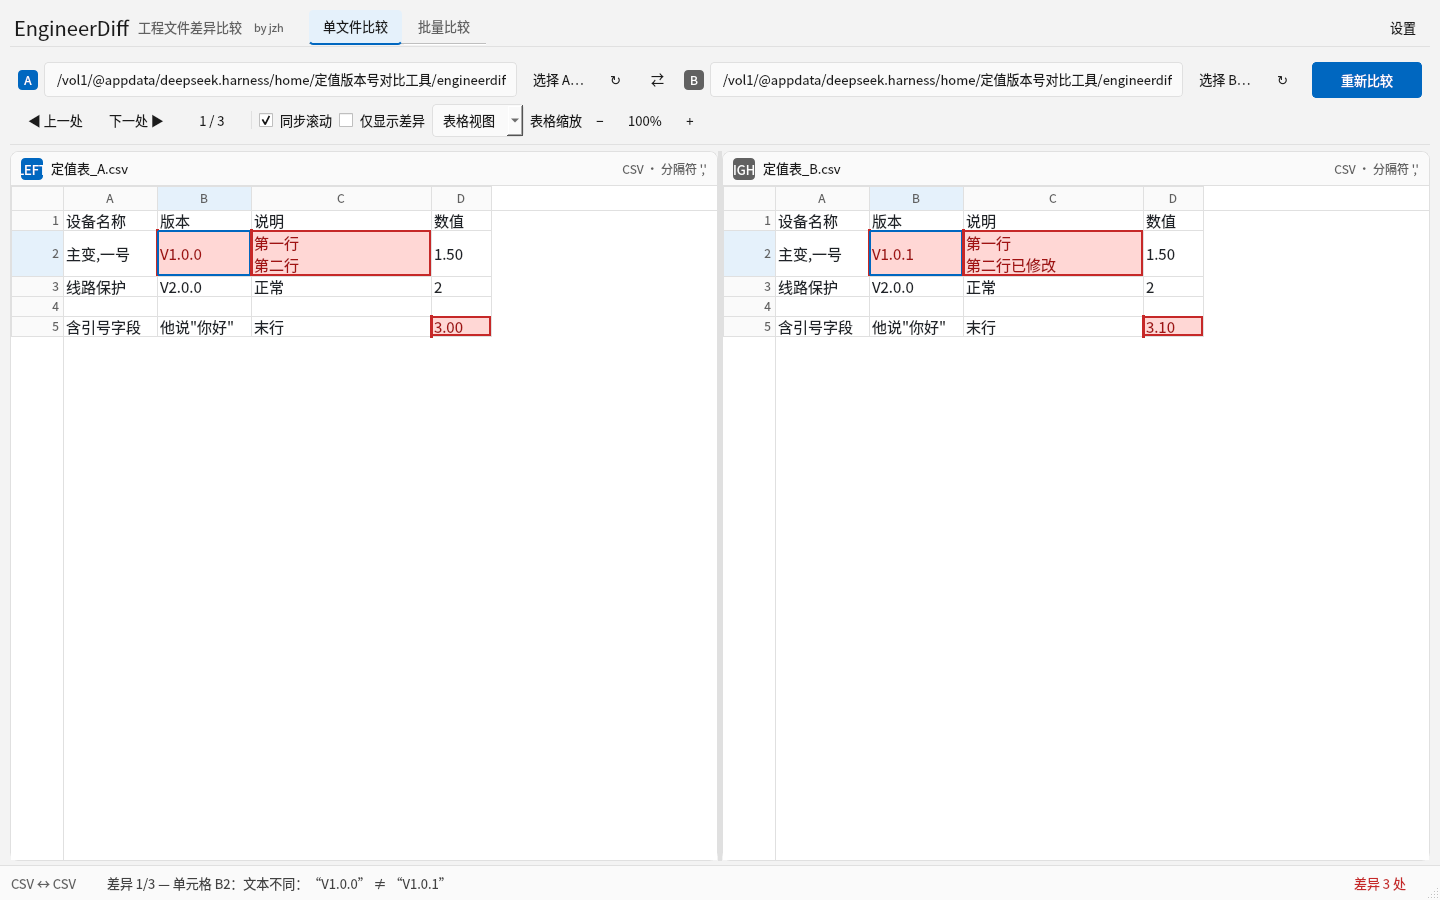
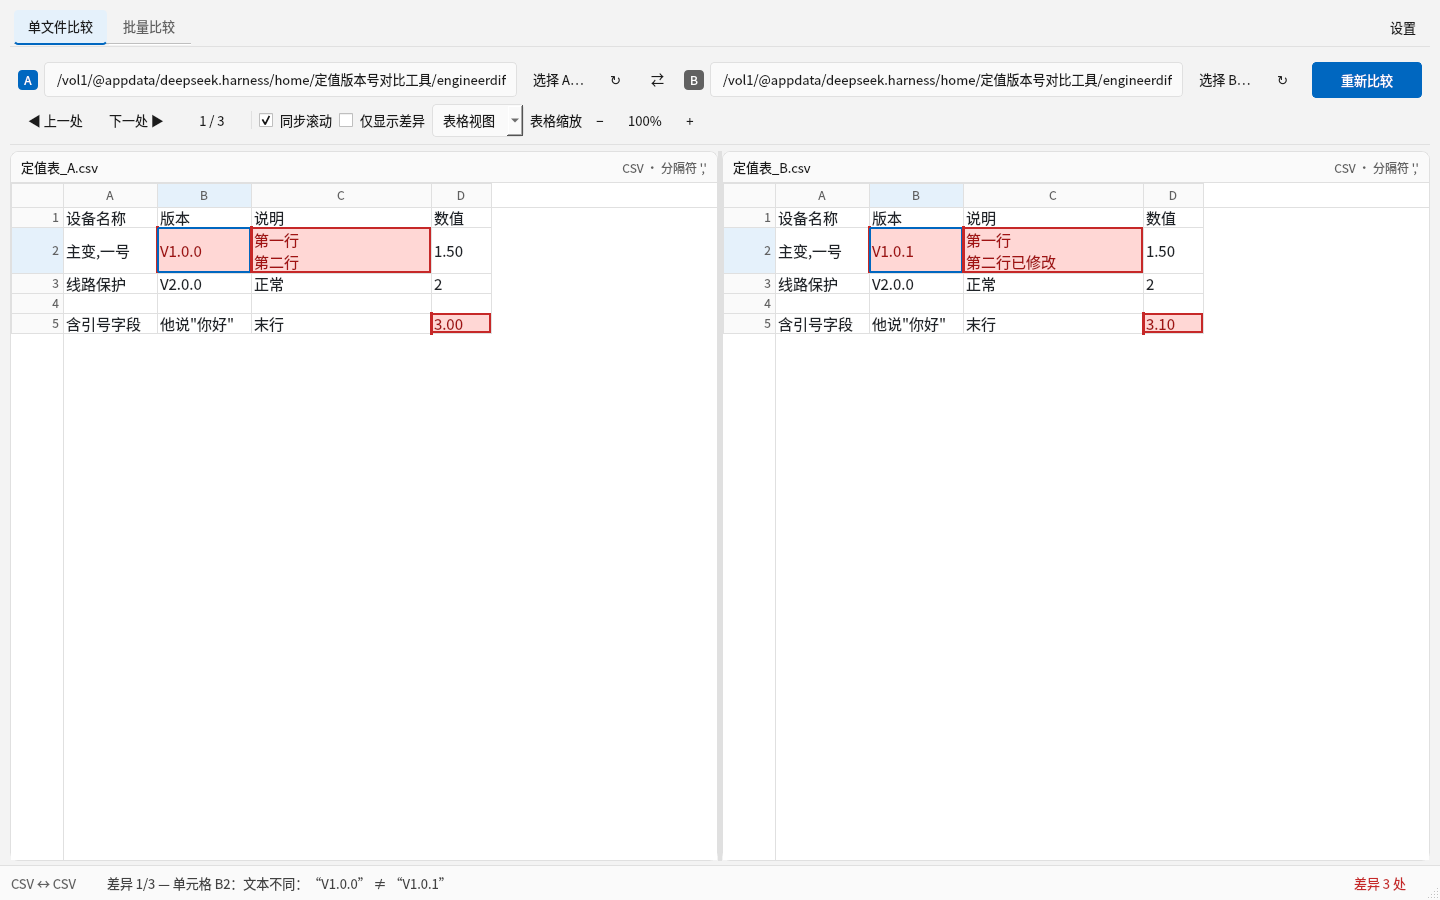
EngineerDiff 1.2.1: remove side badges, native title EngineerDiff by jzh, drop baseline file

diff --git a/src/engineerdiff/ui/batch_dialog.py b/src/engineerdiff/ui/batch_dialog.py
@@ -72,6 +72,38 @@ class _FileList(QListWidget):
             super().dropEvent(event)
 
 
+class _BaselineCombo(QComboBox):
+    """基准下拉框：支持从资源管理器把文件直接拖上来设为基准。"""
+
+    paths_dropped = Signal(list)
+
+    def __init__(self, parent=None):
+        super().__init__(parent)
+        self.setAcceptDrops(True)
+        self.setToolTip("选择基准文件；也可以把文件直接拖到此处设为基准")
+
+    def dragEnterEvent(self, event: QDragEnterEvent) -> None:  # noqa: N802
+        if event.mimeData().hasUrls():
+            event.acceptProposedAction()
+        else:
+            super().dragEnterEvent(event)
+
+    def dragMoveEvent(self, event) -> None:  # noqa: N802
+        if event.mimeData().hasUrls():
+            event.acceptProposedAction()
+        else:
+            super().dragMoveEvent(event)
+
+    def dropEvent(self, event: QDropEvent) -> None:  # noqa: N802
+        if event.mimeData().hasUrls():
+            paths = [u.toLocalFile() for u in event.mimeData().urls() if u.isLocalFile()]
+            if paths:
+                self.paths_dropped.emit(paths)
+            event.acceptProposedAction()
+        else:
+            super().dropEvent(event)
+
+
 class BatchWorker(QThread):
     progress = Signal(int, str)
     candidate_done = Signal(object)
@@ -142,7 +174,8 @@ class BatchCompareDialog(QDialog):
         self.lbl_page_title.setObjectName("pageTitle")
         root.addWidget(self.lbl_page_title)
         hint = QLabel(
-            "默认第一个文件为基准，可在下方下拉框更换；其余文件依次与基准比较。"
+            "默认第一个文件为基准；可在下方下拉框更换，或把文件直接拖到基准框。"
+            "其余文件依次与基准比较。"
             "同一位置只要有任意一个文件不同，整行标红（或关系）。"
         )
         hint.setWordWrap(True)
@@ -162,9 +195,9 @@ class BatchCompareDialog(QDialog):
         fph = QHBoxLayout()
         self.lbl_baseline = QLabel("基准：")
         fph.addWidget(self.lbl_baseline)
-        self.combo_baseline = QComboBox()
+        self.combo_baseline = _BaselineCombo()
         self.combo_baseline.setMinimumWidth(220)
-        self.combo_baseline.setToolTip("选择基准文件；更换后点击“开始批量比较/重新比较”")
+        self.combo_baseline.paths_dropped.connect(self._set_baseline_from_paths)
         fph.addWidget(self.combo_baseline, 1)
         self.lbl_count = QLabel("共 0 个文件")
         fph.addWidget(self.lbl_count)
@@ -340,6 +373,28 @@ class BatchCompareDialog(QDialog):
             item.setToolTip(info.path)
             self.file_list.addItem(item)
             existing.add(info.path)
+
+    def _set_baseline_from_paths(self, paths: list[str]) -> None:
+        """把拖到基准下拉框上的文件加入列表并设为基准。"""
+        if not paths:
+            return
+        self._add_paths(paths)
+        target = paths[0]
+        try:
+            target_resolved = Path(target).resolve()
+        except Exception:
+            target_resolved = Path(target)
+        for i in range(self.combo_baseline.count()):
+            data = self.combo_baseline.itemData(i)
+            if not data:
+                continue
+            try:
+                if Path(data).resolve() == target_resolved:
+                    self.combo_baseline.setCurrentIndex(i)
+                    break
+            except Exception:
+                continue
+        self.lbl_status.setText("基准已切换；点击“重新比较”生成新的差异矩阵。")
 
     def _choose_files(self) -> None:
         paths, _ = QFileDialog.getOpenFileNames(

diff --git a/src/engineerdiff/ui/main_window.py b/src/engineerdiff/ui/main_window.py
@@ -57,7 +57,7 @@ from .workers import CompareWorker
 class MainWindow(QMainWindow):
     def __init__(self, parent=None):
         super().__init__(parent)
-        self.setWindowTitle(f"{version.APP_NAME} {version.__version__} — 工程文件差异比较")
+        self.setWindowTitle(f"{version.APP_NAME} by {version.AUTHOR}")
         self.resize(1440, 900)
         self.setMinimumSize(1050, 680)
         self._settings = AppSettings()
@@ -115,17 +115,8 @@ class MainWindow(QMainWindow):
         hl = QHBoxLayout(header)
         hl.setContentsMargins(4, 2, 4, 2)
         hl.setSpacing(8)
-        self.lbl_brand = QLabel("EngineerDiff")
-        self.lbl_brand.setObjectName("brandTitle")
-        self.lbl_subtitle = QLabel("工程文件差异比较")
-        self.lbl_subtitle.setObjectName("brandSubtitle")
-        self.lbl_author = QLabel(f"by {version.AUTHOR}")
-        self.lbl_author.setObjectName("brandAuthor")
-        self.lbl_author.setToolTip(f"开发者：{version.AUTHOR}")
-        hl.addWidget(self.lbl_brand)
-        hl.addWidget(self.lbl_subtitle)
-        hl.addWidget(self.lbl_author)
-        hl.addSpacing(14)
+        # 原生 Windows 标题栏已显示“EngineerDiff by jzh”，窗口内不再重复品牌行；
+        # 顶部只保留工作模式导航与设置，减少视觉噪声。
         self.nav = QTabBar()
         self.nav.setObjectName("modeNav")
         self.nav.addTab("单文件比较")

diff --git a/src/engineerdiff/ui/panes.py b/src/engineerdiff/ui/panes.py
@@ -46,14 +46,10 @@ class SidePane(QFrame):
         h = QHBoxLayout(header)
         h.setContentsMargins(10, 6, 10, 6)
         h.setSpacing(8)
-        self.badge = QLabel(side.upper())
-        self.badge.setFixedSize(22, 22)
-        self.badge.setAlignment(Qt.AlignmentFlag.AlignCenter)
         self.name_label = QLabel("未选择文件")
         self.name_label.setTextInteractionFlags(Qt.TextInteractionFlag.TextSelectableByMouse)
         self.meta_label = QLabel("")
         self.meta_label.setAlignment(Qt.AlignmentFlag.AlignRight | Qt.AlignmentFlag.AlignVCenter)
-        h.addWidget(self.badge)
         h.addWidget(self.name_label, 1)
         h.addWidget(self.meta_label)
         self._layout.addWidget(header)
@@ -83,10 +79,6 @@ class SidePane(QFrame):
         self._header.setStyleSheet(
             f"QWidget#sideHeader {{ background:{p.secondary_surface}; border-bottom:1px solid {p.divider};"
             "border-top-left-radius:8px; border-top-right-radius:8px; }"
-        )
-        self.badge.setStyleSheet(
-            f"background:{p.accent if self.side == 'left' else p.text_secondary};color:white;"
-            "border-radius:4px;font-weight:600;font-size:10pt;"
         )
         self.name_label.setStyleSheet(f"font-weight:600;color:{p.text};")
         self.meta_label.setStyleSheet(f"color:{p.text_secondary};font-size:9pt;")

diff --git a/tests/test_ui_fluent.py b/tests/test_ui_fluent.py
@@ -42,6 +42,7 @@ def test_main_navigation_and_dark_theme(qapp):
     win = MainWindow()
     win.show()
     qapp.processEvents()
+    assert win.windowTitle() == "EngineerDiff by jzh"
     assert win.pages.count() == 2
     assert win.nav.count() == 2
     win.nav.setCurrentIndex(1)
@@ -105,3 +106,17 @@ def test_author_metadata():
     from engineerdiff import version
 
     assert version.AUTHOR == "jzh"
+
+
+@pytest.mark.gui
+def test_batch_baseline_can_be_set_from_drop_paths(qapp, tmp_path: Path):
+    from engineerdiff.ui.batch_dialog import BatchCompareDialog
+
+    a = tmp_path / "a.txt"; a.write_text("a\n", encoding="utf-8")
+    b = tmp_path / "b.txt"; b.write_text("b\n", encoding="utf-8")
+    c = tmp_path / "c.txt"; c.write_text("c\n", encoding="utf-8")
+    dlg = BatchCompareDialog(None, AppSettings(), str(a), str(b))
+    dlg._add_paths([str(c)])
+    dlg._set_baseline_from_paths([str(c)])
+    assert Path(dlg.combo_baseline.currentData()).resolve() == c.resolve()
+    dlg.close()

diff --git a/src/engineerdiff/version.py b/src/engineerdiff/version.py
@@ -1,5 +1,5 @@
 """版本信息。构建时由脚本校验。"""
-__version__ = "1.2.0"
+__version__ = "1.2.1"
 APP_NAME = "EngineerDiff"
 APP_NAME_CN = "EngineerDiff 工程文件差异比较"
 ORG_NAME = "EngineerDiff"

diff --git a/README.md b/README.md
@@ -54,7 +54,7 @@ Paddle / ONNX Runtime**。
 
 ![关于 EngineerDiff：by jzh](docs/screenshots/about.png)
 
-改造前后对比（左侧 1.1.0，右侧 1.2.0）：
+改造前后对比（左侧 1.1.0，右侧 1.2.1）：
 
 ![UI 改造前后对比](docs/screenshots/ui-before-after.png)
 
@@ -67,7 +67,7 @@ Paddle / ONNX Runtime**。
 ## 安装与使用
 
 1. 从 [GitHub Releases](https://github.com/youyoudezhuzhu/engineerdiff/releases/latest) 下载并运行
-   `EngineerDiff-1.2.0-Setup-x64.exe`（或解压便携版 zip，保持 `_internal` 目录完整）；
+   `EngineerDiff-1.2.1-Setup-x64.exe`（或解压便携版 zip，保持 `_internal` 目录完整）；
 2. 选择或拖入左右文件；**拖入后自动比较**（图片先显示原图，再 OCR），截图可 Ctrl+V 粘贴；
 3. 用“上一处/下一处”或 F7/F8 查看差异；需要时点击“重新比较”；
    点击顶部 **“批量比较”** 标签可选择一个基准 + 多个候选文件，一次查看所有差异；
@@ -139,14 +139,14 @@ QT_QPA_PLATFORM=offscreen .venv/bin/python -m pytest -q
 1. 运行 **Windows Build & Release**（push `main` 或手动 `workflow_dispatch`）；
 2. 流程：依赖断言 → 全量 pytest（含 OCR）→ PyInstaller onedir → 打包后 `--self-test` →
    Inno Setup → **静默安装 → 安装后 `--self-test` → 静默卸载** → artifact；
-3. 推送 `v1.2.0` tag 自动发布 GitHub Release（安装包、便携 zip、SHA-256）。
+3. 推送 `v1.2.1` tag 自动发布 GitHub Release（安装包、便携 zip、SHA-256）。
 
 本地 Windows 构建（需要 Python 3.11、Inno Setup 6）：
 
 ```powershell
 powershell -ExecutionPolicy Bypass -File scripts\build_windows.ps1
-# 产物：release\EngineerDiff-1.2.0-Setup-x64.exe
-#       release\EngineerDiff-1.2.0-portable-win64.zip
+# 产物：release\EngineerDiff-1.2.1-Setup-x64.exe
+#       release\EngineerDiff-1.2.1-portable-win64.zip
 #       release\sha256sums.txt
 ```
 

diff --git a/docs/windows-defender.md b/docs/windows-defender.md
@@ -13,7 +13,7 @@ EngineerDiff 是**未签名的开源 Windows 工具**。软件本身不包含联
 从 GitHub Release 下载后，用 PowerShell 校验：
 
 ```powershell
-Get-FileHash .\EngineerDiff-1.2.0-Setup-x64.exe -Algorithm SHA256
+Get-FileHash .\EngineerDiff-1.2.1-Setup-x64.exe -Algorithm SHA256
 ```
 
 与 Release 页面或 `sha256sums.txt` 中的 SHA-256 对比；一致才继续。
@@ -50,7 +50,7 @@ Remove-MpPreference -ExclusionPath "$env:LOCALAPPDATA\Programs\EngineerDiff"
 
 ## 4. 使用便携版 / 重新下载
 
-- 若安装包被拦，可尝试 `EngineerDiff-1.2.0-portable-win64.zip`；
+- 若安装包被拦，可尝试 `EngineerDiff-1.2.1-portable-win64.zip`；
 - 删除隔离区中的旧文件后重新下载并校验 SHA-256，避免使用损坏/被改写的副本；
 - 企业环境可通过 Intune/组策略下发签名后的版本，或添加应用白名单。
 
@@ -64,7 +64,7 @@ $env:ENGINEERDIFF_SIGN_PASSWORD = "***"
 powershell -ExecutionPolicy Bypass -File scripts\sign_release.ps1
 ```
 
-脚本会签名 `dist\EngineerDiff\EngineerDiff.exe` 与 `release\EngineerDiff-1.2.0-Setup-x64.exe`
+脚本会签名 `dist\EngineerDiff\EngineerDiff.exe` 与 `release\EngineerDiff-1.2.1-Setup-x64.exe`
 并做时间戳；签名后重新计算 `sha256sums.txt` 并重新上传 Release。
 
 ## 6. 已知限制

diff --git a/packaging/README.md b/packaging/README.md
@@ -43,8 +43,8 @@ scripts/build_linux_check.sh --skip-self-test
 
 ```text
 dist\EngineerDiff\EngineerDiff.exe                     PyInstaller one-dir（含 _internal\）
-release\EngineerDiff-1.2.0-Setup-x64.exe               Inno Setup 安装包（默认 per-user）
-release\EngineerDiff-1.2.0-portable-win64.zip          便携版 zip
+release\EngineerDiff-1.2.1-Setup-x64.exe               Inno Setup 安装包（默认 per-user）
+release\EngineerDiff-1.2.1-portable-win64.zip          便携版 zip
 release\sha256sums.txt                                 以上文件的 SHA-256
 build\windows-build-summary.json                       构建摘要（版本/ISCC/大小/哈希）
 build\self-test-report.json                            dist 产物自检报告

diff --git a/docs/code-signing.md b/docs/code-signing.md
@@ -79,5 +79,5 @@ CODE_SIGN_PFX_PASSWORD
 - 虚拟机；
 - 等待签名版发布。
 
-当前 [v1.2.0 Release](https://github.com/youyoudezhuzhu/engineerdiff/releases) 是未签名构建，
+当前 [v1.2.1 Release](https://github.com/youyoudezhuzhu/engineerdiff/releases) 是未签名构建，
 请仅在你信任来源的前提下核对 SHA-256 后使用。

diff --git a/docs/known-limitations.md b/docs/known-limitations.md
@@ -1,6 +1,6 @@
 # 已知限制
 
-本文档记录 EngineerDiff 1.2.0 已确认的限制与边界，帮助用户正确理解比较结果。
+本文档记录 EngineerDiff 1.2.1 已确认的限制与边界，帮助用户正确理解比较结果。
 "未支持"不代表以后不会支持；如对某项有需求，可通过项目 Issue 反馈。
 
 ---
